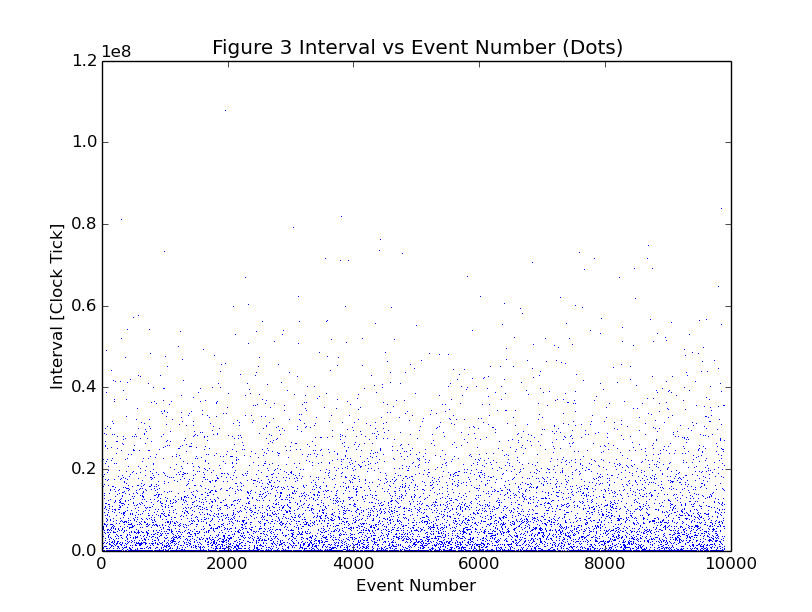
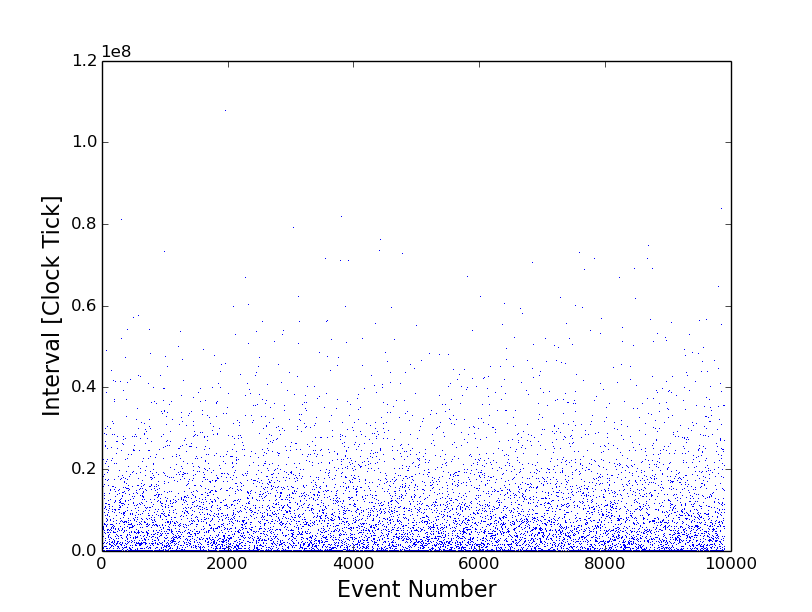
pls finish the first lab report. updated graphs to have larger font for axes and the images

Changed region(s): [[0.0308, 0.3105, 0.0924, 0.683], [0.2463, 0.0621, 0.7697, 0.0931], [0.4002, 0.9314, 0.6158, 0.9935]]

diff --git a/lab1/graphs.py b/lab1/graphs.py
@@ -40,9 +40,9 @@ def figure1():
 	x = np.loadtxt('pjzsIncrease10,000_160901_1743_40.csv', delimiter=',', dtype='int32')
 	t = x[:,1]
 	plt.plot(t)
-	plt.title('Figure 1: Time vs Event Number')	
-	plt.xlabel('Event Number')
-	plt.ylabel('Clock Tick')
+#	plt.title('Figure 1: Time vs Event Number')	
+	plt.xlabel('Event Number', fontsize=16)
+	plt.ylabel('Clock Tick',fontsize=16)
 	plt.show()
 
 def figure2():
@@ -50,9 +50,9 @@ def figure2():
 	t = x[:,1]
 	dt = t[1:] - t[0:-1]
 	plt.plot(dt)
-	plt.title('Figure 2: Interval vs Event Number')
-	plt.xlabel('Event Number')
-	plt.ylabel('Interval [Clock Tick]')
+#	plt.title('Figure 2: Interval vs Event Number')
+	plt.xlabel('Event Number', fontsize=16)
+	plt.ylabel('Interval [Clock Tick]', fontsize=16)
 	plt.show()
 
 def figure3():
@@ -60,9 +60,9 @@ def figure3():
 	t = x[:,1]
 	dt = t[1:] - t[0:-1]
 	plt.plot(dt,',')
-	plt.title('Figure 3 Interval vs Event Number (Dots)')
-	plt.xlabel('Event Number')
-	plt.ylabel('Interval [Clock Tick]')
+#	plt.title('Figure 3 Interval vs Event Number (Dots)')
+	plt.xlabel('Event Number', fontsize=16)
+	plt.ylabel('Interval [Clock Tick]', fontsize=16)
 	plt.show()
 
 def figure4():
@@ -79,9 +79,9 @@ def figure4():
 		steps = np.append(steps, j)
 
 	plt.plot(steps,marr,'o')
-	plt.title('Figure 4 Mean Interval for 10 Chunks of 1000 Events')
-	plt.xlabel('Start Index')
-	plt.ylabel('Mean Interval [Clock Ticks]')
+#	plt.title('Figure 4 Mean Interval for 10 Chunks of 1000 Events')
+	plt.xlabel('Start Index', fontsize=16)
+	plt.ylabel('Mean Interval [Clock Ticks]', fontsize=16)
 	plt.ticklabel_format(style='sci',axis='y',scilimits=(0,0))
 	plt.show()
 
@@ -98,11 +98,10 @@ def figure5():
 		m = np.mean(dt[0:j+nstep])   
 		marr = np.append(marr,m)
 		steps = np.append(steps, j)
-
 	plt.plot(steps,marr,'o')
-	plt.title('Figure 5 Mean Interval with increasing fractions of ')
-	plt.xlabel('Number of Intervals Averaged')
-	plt.ylabel('Mean Interval [Clock Ticks]')
+#	plt.title('Figure 5 Mean Interval with increasing fractions of ')
+	plt.xlabel('Number of Intervals Averaged', fontsize=16)
+	plt.ylabel('Mean Interval [Clock Ticks]', fontsize=16)
 	plt.ticklabel_format(style='sci',axis='y',scilimits=(0,0))
 	plt.show()
 
@@ -120,9 +119,9 @@ def figure6():
 		steps = np.append(steps, j)
 
 	plt.plot(steps,marr,'o')
-	plt.title('Figure 6 Mean Interval for Chunks of 100 Events')
-	plt.xlabel('Start Index')
-	plt.ylabel('Mean Interval [Clock Ticks]')
+#	plt.title('Figure 6 Mean Interval for Chunks of 100 Events')
+	plt.xlabel('Start Index', fontsize=16)
+	plt.ylabel('Mean Interval [Clock Ticks]', fontsize=16)
 	plt.ticklabel_format(style='sci',axis='y',scilimits=(0,0))
 	plt.show()
 
@@ -147,9 +146,9 @@ def figure7():
 	steps = steps[1:]
 	stdarr = stdarr[1:steps.size+1]
 	plt.plot(steps, stdarr,'o')
-	plt.title('Figure 6 Mean Interval for Chunks of 100 Events')
-	plt.xlabel('Start Index')
-	plt.ylabel('Mean Interval [Clock Ticks]')
+#	plt.title('Figure 6 Mean Interval for Chunks of 100 Events')
+	plt.xlabel('Start Index', fontsize=16)
+	plt.ylabel('Mean Interval [Clock Ticks]', fontsize=16)
 	plt.ticklabel_format(style='sci',axis='y',scilimits=(0,0))
 	plt.show()
 
@@ -182,9 +181,9 @@ def figure8():
 
 	plt.plot(steps, stdarr,'o')
 	plt.plot(linex,liney)
-	plt.title('Figure 6 Mean Interval for Chunks of 100 Events')
-	plt.xlabel('Start Index')
-	plt.ylabel('Mean Interval [Clock Ticks]')
+#	plt.title('Figure 6 Mean Interval for Chunks of 100 Events')
+	plt.xlabel('Start Index', fontsize=16)
+	plt.ylabel('Mean Interval [Clock Ticks]', fontsize=16)
 	plt.ticklabel_format(style='sci',axis='y',scilimits=(0,0))
 	plt.show()
 
@@ -216,9 +215,9 @@ def figure9():
 	plt.plot(binc,bincount,drawstyle='steps-mid', lw = 1.5)
 	x1,x2,y1,y2 = plt.axis()
 	plt.axis((x1,5e7,y1,2000))
-	#plt.title('Figure 9 Frequency vs Interval')
-	plt.xlabel('Interval [Ticks]')
-	plt.ylabel('Frequency')
+	##plt.title('Figure 9 Frequency vs Interval')
+	plt.xlabel('Interval [Ticks]', fontsize=16)
+	plt.ylabel('Frequency', fontsize=16)
 	plt.show()
 
 def figure10():
@@ -247,9 +246,9 @@ def figure10():
 	plt.plot(binc,bincount,drawstyle='steps-mid', lw = 1.3)
 	x1,x2,y1,y2 = plt.axis()
 	plt.axis((x1,4000,y1,y2))
-	#plt.title('Figure 9 Frequency vs Interval')
-	plt.xlabel('Interval [Ticks]')
-	plt.ylabel('Frequency')
+	##plt.title('Figure 9 Frequency vs Interval')
+	plt.xlabel('Interval [Ticks]', fontsize=16)
+	plt.ylabel('Frequency', fontsize=16)
 	plt.show()
 
 def figure11(maths):
@@ -287,15 +286,15 @@ def figure11(maths):
 	ax.plot(binc,bincount,drawstyle='steps-mid', lw = 1.3)
 	ax.plot(binc, y)
 	ax.set_yscale('log')
-	plt.xlabel('Interval [Ticks]')
-	plt.ylabel('Frequency')
+	plt.xlabel('Interval [Ticks]', fontsize=16)
+	plt.ylabel('Frequency', fontsize=16)
 	plt.xlim(0,1e8)
 
 	ax2 = fig.add_subplot(212)
 	ax2.plot(binc,bincount,drawstyle='steps-mid', lw = 1.3)
 	ax2.plot(binc, y)
-	plt.xlabel('Interval [Ticks]')
-	plt.ylabel('Frequency')
+	plt.xlabel('Interval [Ticks]', fontsize=16)
+	plt.ylabel('Frequency', fontsize=16)
 	plt.subplots_adjust(hspace=0.2)
 
 	plt.show()
@@ -328,8 +327,8 @@ def figure12():
 	y = x
 	plt.plot(marr, stdarr, 'o')
 	plt.plot(x,y)
-	plt.xlabel('Start Index')
-	plt.ylabel('Mean Interval [Clock Ticks]')
+	plt.xlabel('Start Index', fontsize=16)
+	plt.ylabel('Mean Interval [Clock Ticks]', fontsize=16)
 	plt.show()
 
 def figure14(pois):
@@ -347,8 +346,8 @@ def figure14(pois):
 	ax = fig.add_subplot(311)
 	plt.plot(np.arange(2499),t1)
 	plt.xlim(0,3000)
-	plt.xlabel('Event Number')
-	plt.ylabel('Time [ticks]')
+	plt.xlabel('Event Number', fontsize=16)
+	plt.ylabel('Time [ticks]', fontsize=16)
 
 
 	N = 1500
@@ -368,8 +367,8 @@ def figure14(pois):
 	binc = binl + 0.5*bw
 	ax2 = fig.add_subplot(312)
 	ax2.plot(binc, bincount, drawstyle='steps-mid', lw = 1.3)
-	plt.xlabel('Time [ticks]')
-	plt.ylabel('Counts per Bin')
+	plt.xlabel('Time [ticks]', fontsize=16)
+	plt.ylabel('Counts per Bin', fontsize=16)
 
 	xvals = np.arange(bincount.max()+1)
 	xvals2 = np.linspace(xvals.min(), xvals.max(), 100)
@@ -403,8 +402,8 @@ def figure14(pois):
 	#parameters, cov_matrix = curve_fit(pois, range(freq.size), freq)
 	#ax3.plot(xvals2,pois(xvals2, *parameters)*bincount.size)
 
-	plt.xlabel('Counts per Bin')
-	plt.ylabel('Frequency')
+	plt.xlabel('Counts per Bin', fontsize=16)
+	plt.ylabel('Frequency', fontsize=16)
 	plt.ylim(0,600)
 	plt.xlim(-1,9)
 	plt.subplots_adjust(hspace=0.2)
